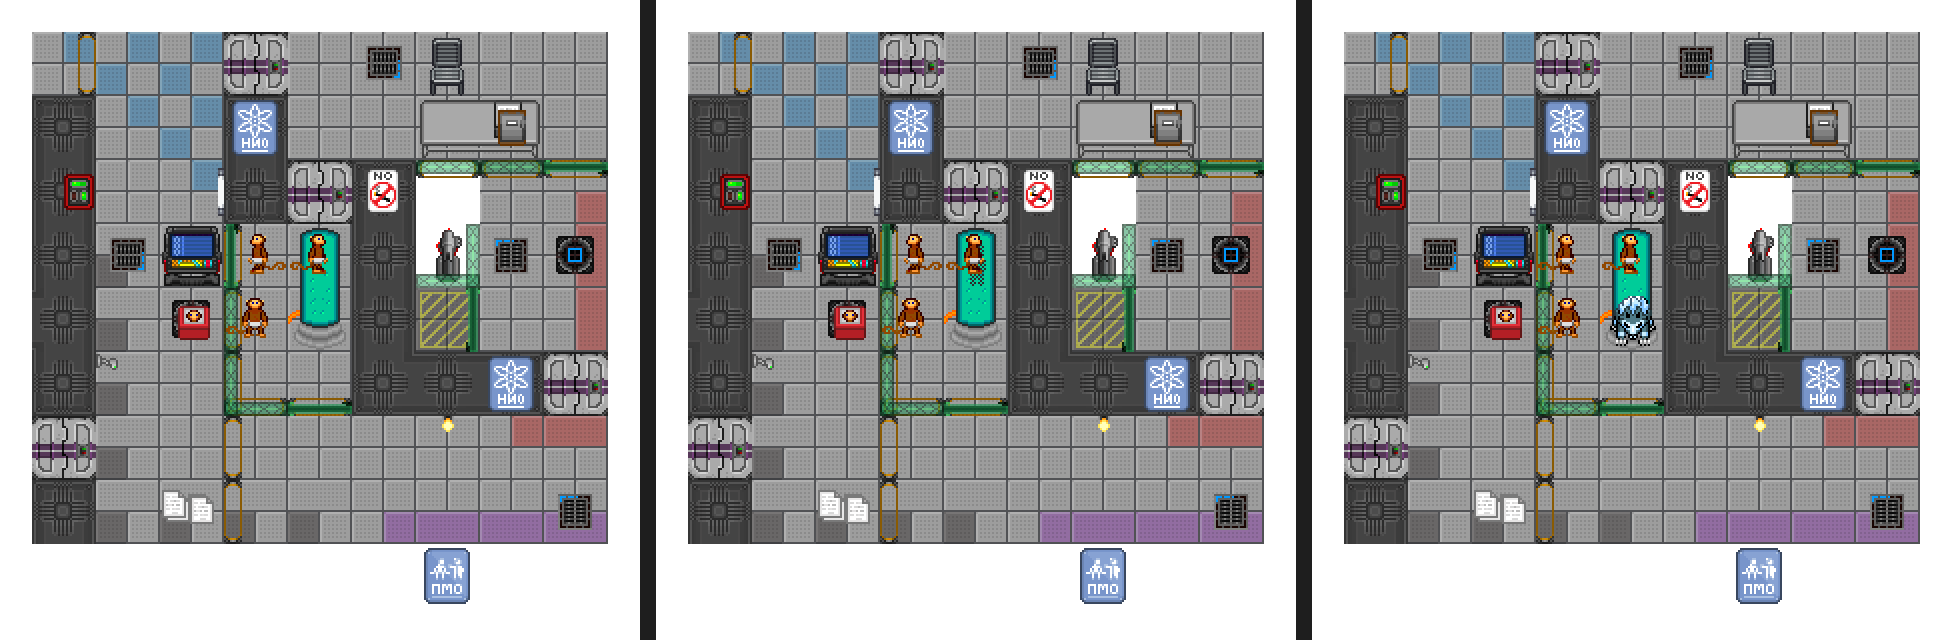
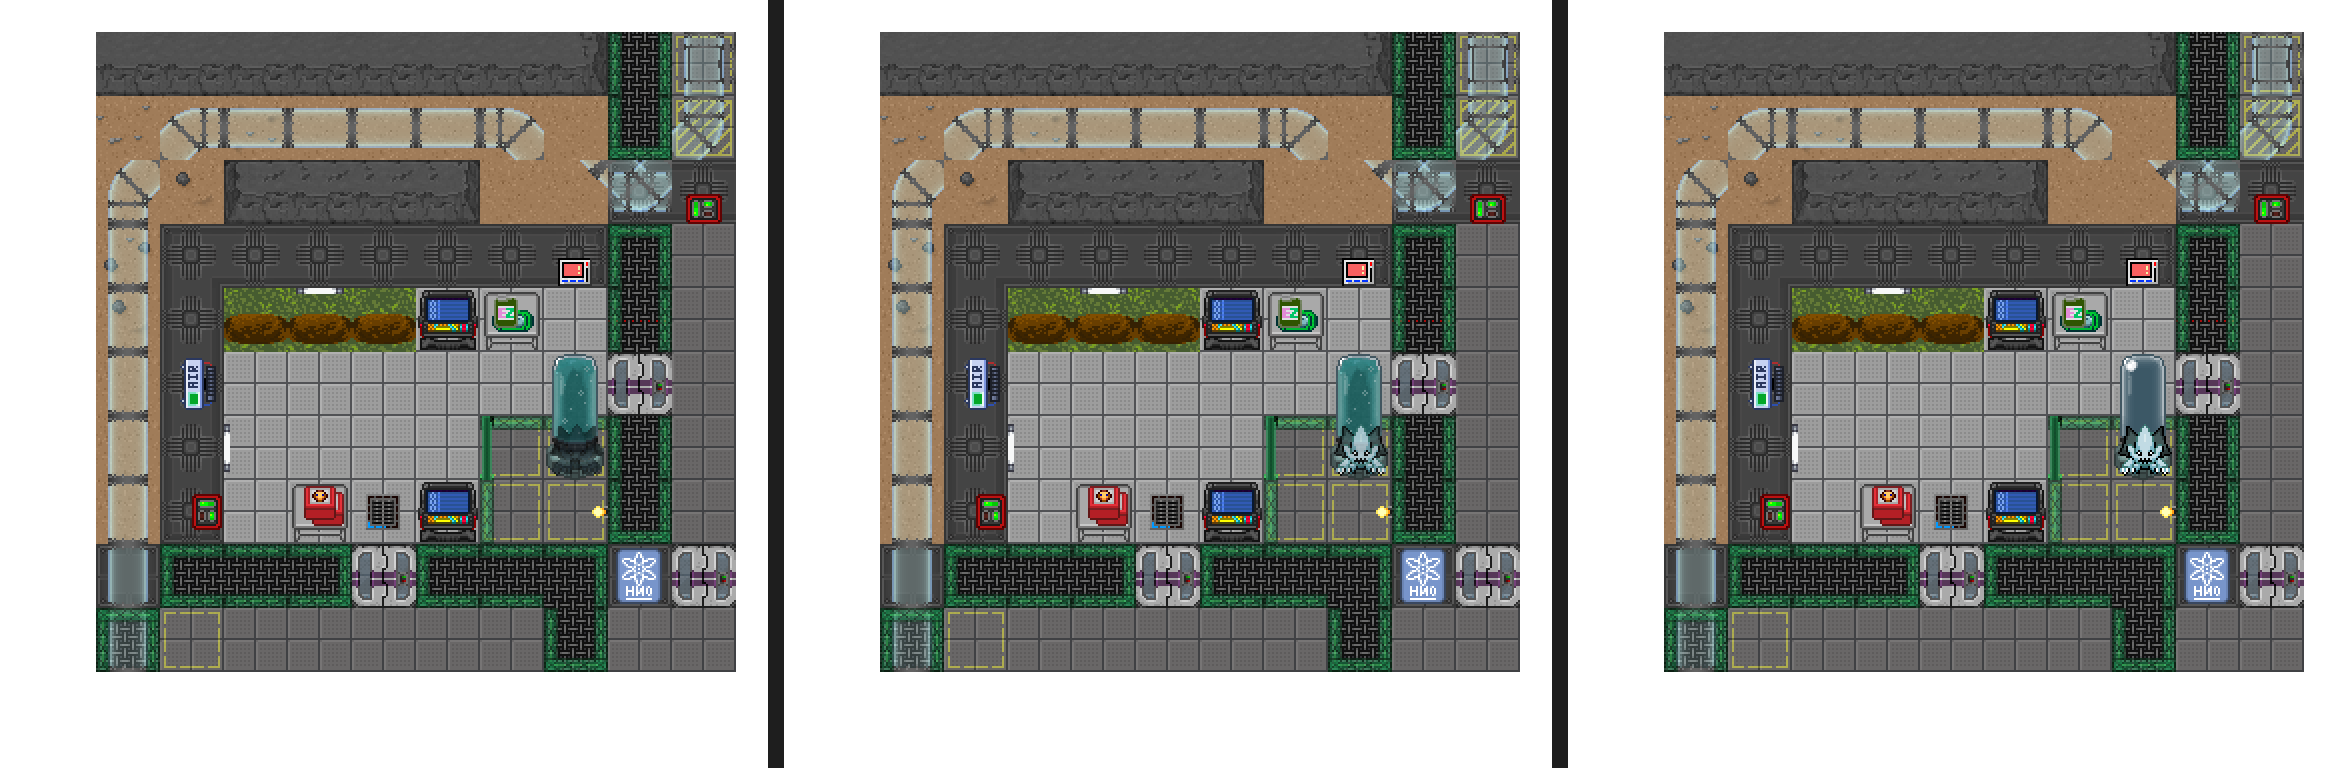
Outpost: reconstitution lab, transit line to the mining station, warning floors, cryo-style tank
Verified on an isolated server: 18/18 xenoarchaeology, fossil and outpost tests.

diff --git a/tools/xenoarch/port_outpost.py b/tools/xenoarch/port_outpost.py
@@ -622,6 +622,7 @@ def main(old_path, base_path, out_path):
     # Transit tubes.
     tube_report = place_tubes(tiles, tubes)
     build_mining_line(tiles, cur)
+    carve_diagonal_corners(tiles, cur)
     # Fix vent scrubbers mapped without a direction: face the adjacent pipe.
     for (x, y), (objs, turf, area) in tiles.items():
         for i, a in enumerate(objs):
@@ -790,6 +791,14 @@ def tube_dirs(atom):
         return {NORTH, SOUTH}
     if t == '/obj/structure/transit_tube/horizontal':
         return {EAST, WEST}
+    if t == '/obj/structure/transit_tube/crossing':
+        return {NORTH, SOUTH}
+    if t == '/obj/structure/transit_tube/crossing/horizontal':
+        return {EAST, WEST}
+    if t == '/obj/structure/transit_tube/diagonal/crossing':
+        return {NE, SW}
+    if t == '/obj/structure/transit_tube/diagonal/crossing/topleft':
+        return {NW, SE}
     if t == '/obj/structure/transit_tube/diagonal':
         return {NE, SW}
     if t == '/obj/structure/transit_tube/diagonal/topleft':
@@ -1087,6 +1096,27 @@ def build_mining_line(tiles, cur):
                   '/obj/structure/transit_tube_pod'])
     print(f'mining line: {len(full)} cells, {crossings} walkable crossings: {[p for p in full if False]}')
     return full
+
+
+def carve_diagonal_corners(tiles, cur):
+    """Diagonal tubes are drawn across tile corners: clear the rock under those corners too."""
+    carved = 0
+    for (x, y), (objs, turf, area) in list(tiles.items()):
+        for a in objs:
+            if not atom_type(a).startswith('/obj/structure/transit_tube'):
+                continue
+            for d in tube_dirs(a):
+                if d in (NORTH, SOUTH, EAST, WEST):
+                    continue
+                dx, dy = offset(d)
+                for p in ((x + dx, y), (x, y + dy)):
+                    t = ensure(tiles, cur, p)
+                    if atom_type(t[1]).startswith('/turf/simulated/mineral') and not t[0]:
+                        t[1] = '/turf/simulated/floor/plating/asteroid/airless'
+                        if t[2] == '/area/mine/unexplored':
+                            t[2] = '/area/mine/explored'
+                        carved += 1
+    print('carved diagonal corners:', carved)
 
 
 if __name__ == '__main__':

diff --git a/docs/XENOARCHAEOLOGY.md b/docs/XENOARCHAEOLOGY.md
@@ -298,3 +298,34 @@ BYOND 516.1688 (`E:/BYONDa220/bin`). Итоговая проверка:
 фракцией, синтез семян thaa'dra (потенция 25). Файлы: общий вид аутпоста,
 лаборатории до и после, вольер во время роста и после рождения, все пять
 древних существ и семь выращенных растений.
+
+## Лаборатория реконституции и линия до шахты (16 ноября 2026)
+
+- **Лаборатория реконституции** (`/area/research_outpost/reconstitution`,
+  x 145–150, y 198–201) построена на месте бывшей стыковки исследовательского
+  шаттла. Входы из приёмной (147,197) и из коридора (151,200). Внутри три
+  грядки на траве, консоль флоры, стол с анализатором растений и удобрением,
+  консоль фауны, стол с обезьяньими кубиками, вольер 2×2 со шлюзовой створкой
+  и баком роста. Свой APC, тревоги, свет, вентиляция от линии приёмной.
+  Консоли из пробоподготовки и старого вольера убраны; старый вольер снова
+  обезьяний.
+- **Бак роста** выглядит как криокамера (`icons/obj/machines/cryogenics.dmi`):
+  корпус `pod0/pod1`, стекло `lid0/lid1`, внутри покачивается растущее
+  существо — тёмная тень до 50% роста, затем в цвете. Рождённое существо
+  выходит на клетку перед баком, если она свободна.
+- **Транспортная труба до шахтёрской базы.** Приёмная (144,193) стала проходной
+  станцией; линия идёт через карман космоса, пересекает шахтёрский мостик
+  непрочным перекрёстком `transit_tube/crossing` (мостик остаётся проходимым),
+  по прорубленному в породе тоннелю спускается к базе и входит в вестибюль
+  через новое окно в северной стене до конечной станции с капсулой (164,76).
+  118 клеток; трасса подобрана поиском пути без поворотов круче 45° и без
+  поворотов на открытом грунте. Конечные станции старого кольца исправлены:
+  `turn(dir, -90)` в BYOND — по часовой стрелке. Под диагональными стыками
+  вырублена порода (48 клеток).
+- **Пол «warnplate»**: в иконке обычного металлического пола нет такого
+  состояния, девять клеток рисовались чёрными. Теперь это пол с полосами
+  `turf_decal/stripes/line`.
+- Тесты: `outpost_transit_line` (каждая труба на шахте состыкована, капсула по
+  логике игры доезжает от базы до приёмной и обратно) и `reconstitution_lab`
+  (консоли, бак, питание, воздух, рождение в вольере). Изолированный сервер:
+  18 PASS. Снимки — `docs/xenoarch_showcase/07`, `10`–`12`.
